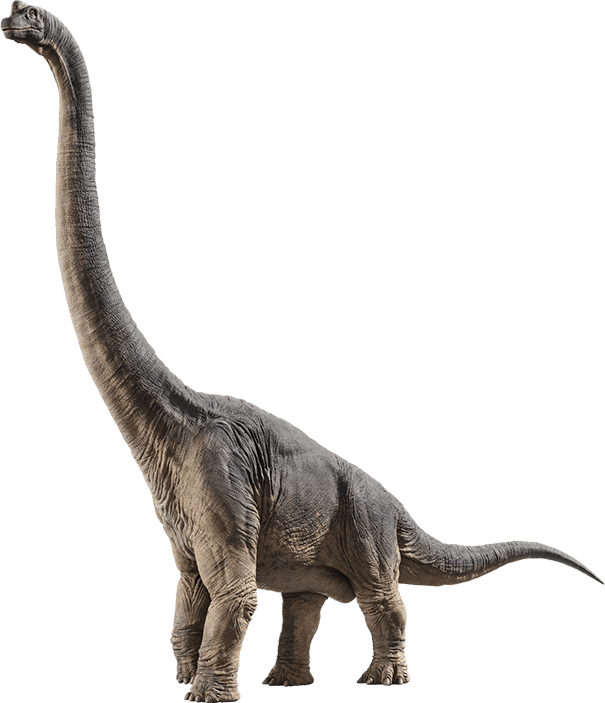
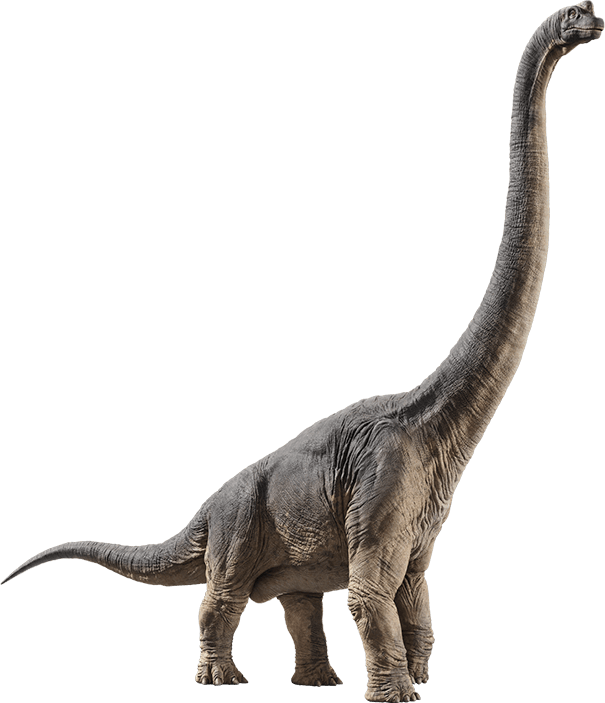
health bars added, opponent faces fighter

Changed region(s): [[0.0, 0.0, 1.0, 1.0]]

diff --git a/index.html b/index.html
@@ -18,12 +18,14 @@
             <div class="col-6" id="user-fighter">
                 <br>Your Dino Stats:<br>
                     <span id="fighter-HP">HP:</span><br>
+                    <progress id="health" value="100" max="100"></progress><br>
                     <span id="fighter-AP">Attack Power:</span>
             </div>
 
             <div class="col-6" id="current-opponent">
                 <br>Enemy Dino Stats:<br>
                     <span id="opponent-HP">HP:</span><br>
+                    <progress id="health" value="100" max="100"></progress><br>
                     <span id="opponent-CA">Counter-Attack Power:</span>
             </div>
         </div>

diff --git a/assets/CSS/style.css b/assets/CSS/style.css
@@ -75,3 +75,8 @@ p.card-text {
 .remove-text{
     display: none;
 }
+
+#opponent {
+    -webkit-transform: scaleX(-1);
+    transform: scaleX(-1);
+}
